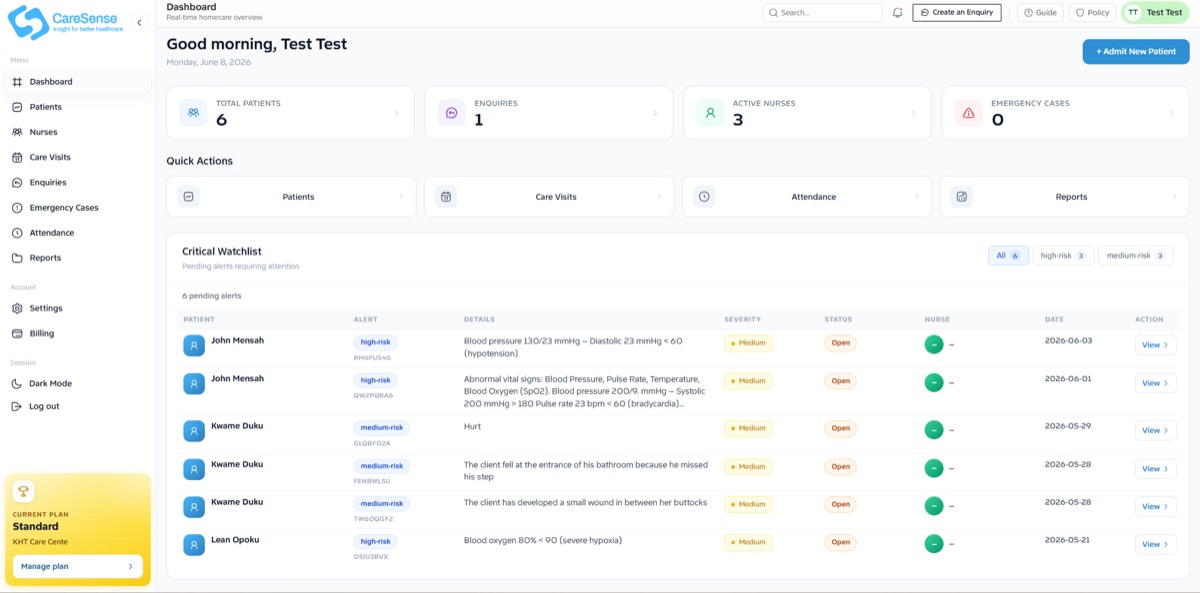
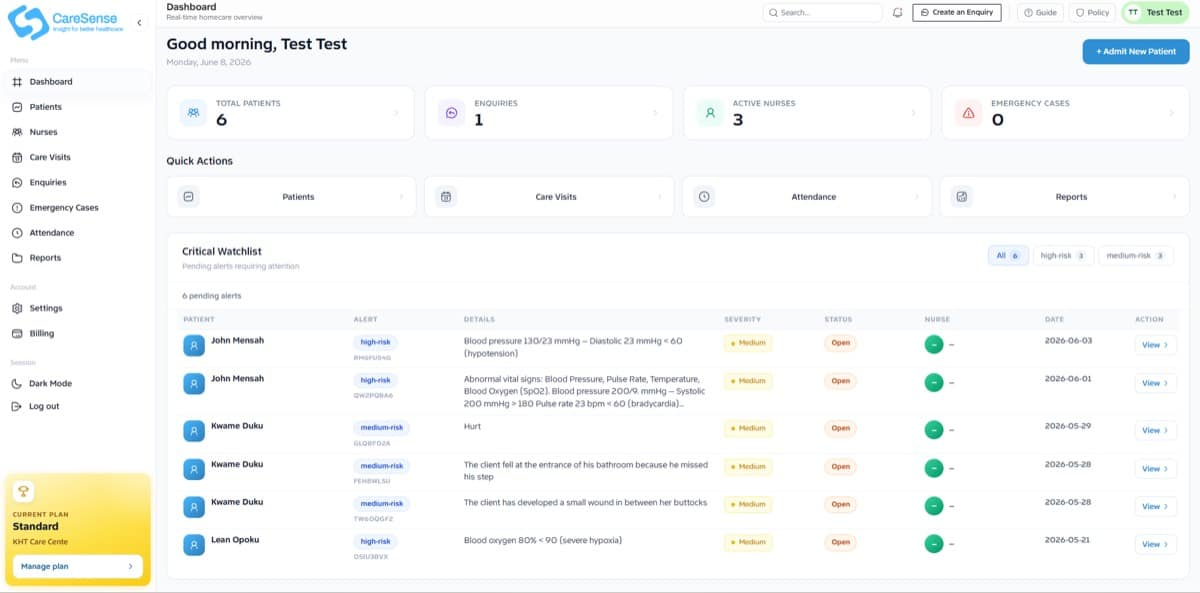
feat: Optimize image assets and update references for improved performance
- Replaced JPEG images with WebP format in various components and constants for better loading efficiency.
- Updated image references in index.html, LandingHero.jsx, and landingContent.js to reflect the new WebP assets.
- Adjusted image dimensions in LandingHero.jsx to maintain aspect ratio and enhance visual presentation.

Changed region(s): [[0.0, 0.8803, 0.0617, 0.9106], [0.185, 0.0607, 0.2158, 0.0911]]

diff --git a/src/data/landingContent.js b/src/data/landingContent.js
@@ -60,7 +60,7 @@ export const PROBLEM_SOLUTION_CONTENT = {
       'CareSense brings your entire operation into a single, intuitive dashboard. We handle the backend complexity so you can focus on what matters most: delivering exceptional care.',
     cta: { label: 'Get started free', href: '/login' },
     image: {
-      src: '/mockups/02.png',
+      src: '/mockups/optimized/solution-dashboard.webp',
       alt: 'CareSense dashboard unifying patients, nurses, and visits',
     },
   },
@@ -100,56 +100,56 @@ export const FEATURES_CONTENT = {
       title: 'Patient\nManagement',
       body: 'Profiles, care plans, and clinical history so every visit starts with full context.',
       href: '#how-it-works',
-      imageSrc: '/images/female-nurse-portrait-with-older-patient.jpg',
+      imageSrc: '/images/optimized/female-nurse.webp',
       imageAlt: 'Nurse supporting an older patient during a home visit',
     },
     {
       title: 'Workforce &\nCredentials',
       body: 'Track nurses, qualifications, and availability without juggling multiple tools.',
       href: '#how-it-works',
-      imageSrc: '/images/optimized/audience-agency.jpg',
+      imageSrc: '/images/optimized/audience-agency.webp',
       imageAlt: 'Agency team coordinating care operations together',
     },
     {
       title: 'Smart\nScheduling',
       body: 'Match caregivers to patients quickly. See availability and manage shifts in one view.',
       href: '#how-it-works',
-      imageSrc: '/images/realistic-scene-with-elderly-care-senior-people.jpg',
+      imageSrc: '/images/optimized/elderly-care.webp',
       imageAlt: 'Caregiver assisting a senior with daily care at home',
     },
     {
       title: 'Compliance\n& EVV',
       body: 'GPS clock in, timestamps, and visit notes that keep you audit ready.',
       href: '#security',
-      imageSrc: '/images/realistic-scene-with-health-worker-taking-care-elderly-patient.jpg',
+      imageSrc: '/images/optimized/health-worker.webp',
       imageAlt: 'Health worker providing care to an elderly patient',
     },
     {
       title: 'Caregiver\nPortal',
       body: 'Field staff view schedules, log notes, and sync updates from the mobile app.',
       href: '#mobile-app',
-      imageSrc: '/images/Mo.png',
+      imageSrc: '/images/optimized/nurse-mockup.jpg',
       imageAlt: 'CareSense caregiver mobile app on a phone',
     },
     {
       title: 'Billing &\nPayroll',
       body: 'Match visits to billing and payroll hours automatically, with less manual tracking.',
       href: '#pricing',
-      imageSrc: '/images/006.png',
+      imageSrc: '/images/optimized/problem-po.webp',
       imageAlt: 'Homecare operations and billing workflow overview',
     },
     {
       title: 'Clinical Red\nFlags Alerts',
       body: 'Get notified when vitals or visit notes signal risk, so your team can act before issues escalate.',
       href: '#security',
-      imageSrc: '/images/realistic-scene-with-elderly-care-senior-people%20(1).jpg',
+      imageSrc: '/images/optimized/elderly-care-2.webp',
       imageAlt: 'Senior receiving attentive care during a home visit',
     },
     {
       title: 'Automated\nMedical Records',
       body: 'Turn visit activity into clear medical records without rebuilding charts by hand after every shift.',
       href: '#how-it-works',
-      imageSrc: '/mockups/optimized/HomePage.jpg',
+      imageSrc: '/mockups/optimized/HomePage.webp',
       imageAlt: 'CareSense dashboard showing care records and visits',
     },
   ],
@@ -168,7 +168,7 @@ export const AUDIENCE_CONTENT = {
       title: 'Agency owners',
       body: 'See operations at a glance, including census, staffing, and billing readiness without chasing updates.',
       accent: 'featured',
-      imageSrc: '/images/optimized/audience-agency.jpg',
+      imageSrc: '/images/optimized/audience-agency.webp',
     },
     {
       id: 'coordinators',
@@ -370,7 +370,7 @@ export const MOBILE_APP_CONTENT = {
     href: 'https://apps.apple.com',
     label: 'Download on the App Store',
   },
-  mockupSrc: '/mockups/optimized/Momo.png',
+  mockupSrc: '/mockups/optimized/Momo.webp',
 };
 
 export const FINAL_CTA_CONTENT = {

diff --git a/src/constants/brandAssets.js b/src/constants/brandAssets.js
@@ -3,12 +3,12 @@ export const BRAND_LOGO_SRC = '/caresense-logo.png';
 export const FAVICON_SRC = '/favicon.png';
 
 /** Store download badges in public/ (use exact files from folder). */
-export const GOOGLE_PLAY_BADGE_SRC = '/images/play.png';
-export const APP_STORE_BADGE_SRC = '/appstore.png';
+export const GOOGLE_PLAY_BADGE_SRC = '/images/optimized/play.webp';
+export const APP_STORE_BADGE_SRC = '/images/optimized/appstore.webp';
 
-/** Problem section image — public/images/006.png */
-export const PO_IMAGE_SRC = '/images/006.png';
+/** Problem section image — optimized WebP */
+export const PO_IMAGE_SRC = '/images/optimized/problem-po.webp';
 export const PROBLEM_SECTION_IMAGE_SRC = PO_IMAGE_SRC;
 
-/** Nurse mobile app mockup screen — place file at public/images/Nurse1.png */
-export const NURSE1_MOCKUP_SRC = '/images/Mo.png';
+/** Nurse mobile app mockup screen — optimized WebP */
+export const NURSE1_MOCKUP_SRC = '/images/optimized/nurse-mockup.jpg';

diff --git a/index.html b/index.html
@@ -9,7 +9,7 @@
     <meta name="viewport" content="width=device-width, initial-scale=1.0" />
     <link rel="preconnect" href="https://fonts.googleapis.com">
     <link rel="preconnect" href="https://fonts.gstatic.com" crossorigin>
-    <link rel="preload" as="image" href="/mockups/optimized/HomePage.jpg" fetchpriority="high">
+    <link rel="preload" as="image" href="/mockups/optimized/HomePage.webp" type="image/webp" fetchpriority="high">
     <link href="https://fonts.googleapis.com/css2?family=Figtree:wght@400;500;600;700&family=Sora:wght@500;600;700&display=swap" rel="stylesheet" media="print" onload="this.media='all'">
     <noscript>
       <link href="https://fonts.googleapis.com/css2?family=Figtree:wght@400;500;600;700&family=Sora:wght@500;600;700&display=swap" rel="stylesheet">

diff --git a/src/components/landing/LandingHero.jsx b/src/components/landing/LandingHero.jsx
@@ -109,11 +109,11 @@ export default function LandingHero() {
             </div>
             <div className="cs-device__screen">
               <img
-                src="/mockups/optimized/HomePage.jpg"
+                src="/mockups/optimized/HomePage.webp"
                 alt="CareSense dashboard showing visits and patient overview"
                 className="cs-hero__img"
                 width={1200}
-                height={750}
+                height={593}
                 decoding="async"
                 fetchPriority="high"
                 loading="eager"
